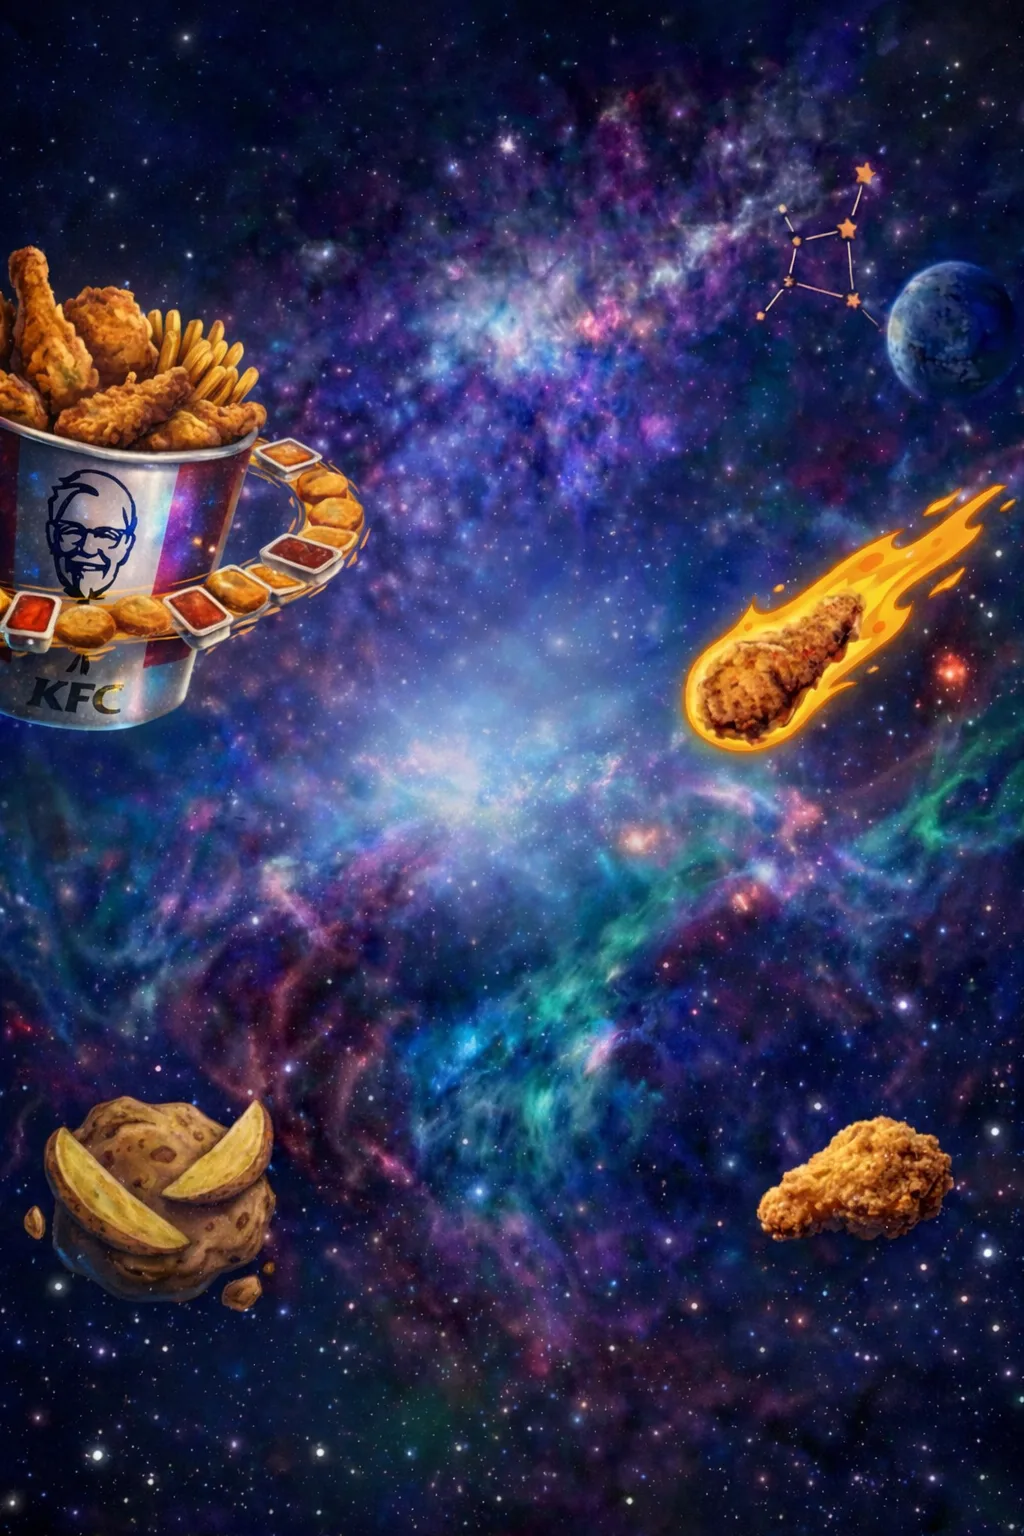
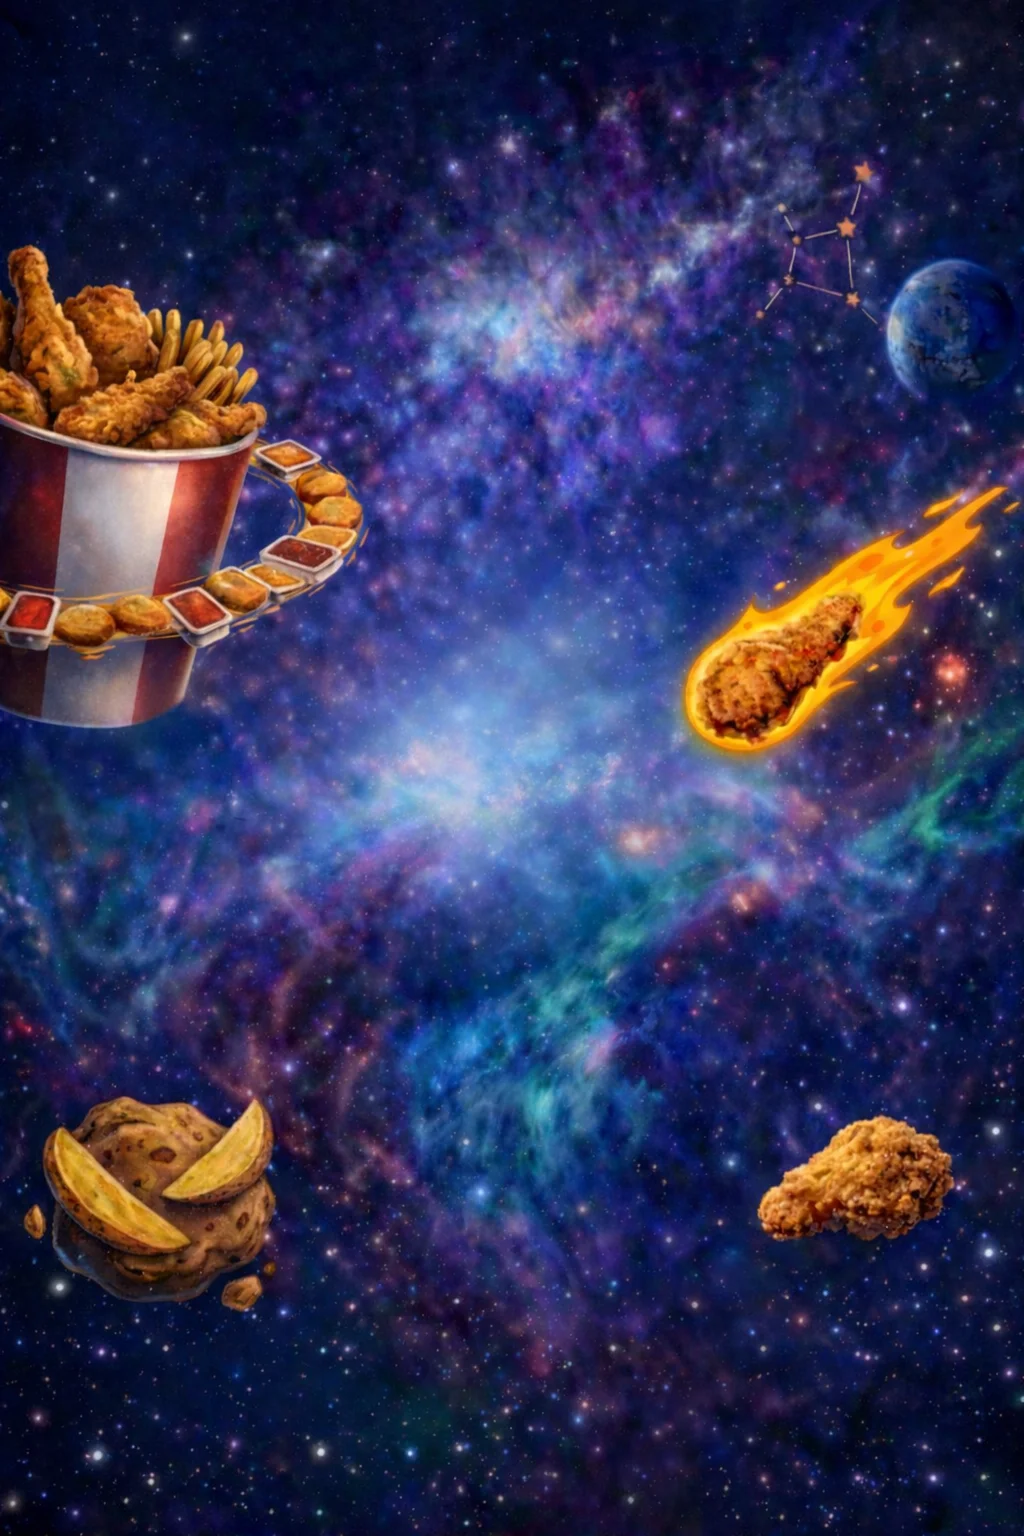
perf: Code splitting, font preload, admin texts export
- Split bundle with React.lazy: match3 and quest load separately
- Vite manualChunks: vendor-react (48KB) and vendor-pixi (542KB) isolated
- Main bundle reduced from 1.4MB to 188KB (initial load 76KB gzip)
- Preload critical fonts (RosticsCeraPro Regular + Black) and logo
- Re-convert gamebg.webp from updated source image
- Add CSV/JSON export for admin texts panel

diff --git a/frontend/index.tsx b/frontend/index.tsx
@@ -1,11 +1,12 @@
 
-import React from 'react';
+import React, { Suspense } from 'react';
 import ReactDOM from 'react-dom/client';
 import { BrowserRouter, Routes, Route, Navigate } from 'react-router-dom';
 import { AuthProvider } from './contexts/AuthContext';
 import { TextsProvider } from './contexts/TextsContext';
-import App from './App';
-import QuestApp from './quest/QuestApp';
+
+const App = React.lazy(() => import('./App'));
+const QuestApp = React.lazy(() => import('./quest/QuestApp'));
 
 const rootElement = document.getElementById('root');
 if (!rootElement) {
@@ -18,12 +19,14 @@ root.render(
     <TextsProvider>
       <AuthProvider>
         <BrowserRouter>
-          <Routes>
-            <Route path="/spacequest/*" element={<QuestApp />} />
-            <Route path="/match3/*" element={<App />} />
-            <Route path="/" element={<Navigate to="/match3" replace />} />
-            <Route path="*" element={<Navigate to="/match3" replace />} />
-          </Routes>
+          <Suspense fallback={null}>
+            <Routes>
+              <Route path="/spacequest/*" element={<QuestApp />} />
+              <Route path="/match3/*" element={<App />} />
+              <Route path="/" element={<Navigate to="/match3" replace />} />
+              <Route path="*" element={<Navigate to="/match3" replace />} />
+            </Routes>
+          </Suspense>
         </BrowserRouter>
       </AuthProvider>
     </TextsProvider>

diff --git a/frontend/index.html b/frontend/index.html
@@ -7,6 +7,9 @@
     <title>ROSTIC'S Kitchen Match-3</title>
     <link rel="icon" type="image/x-icon" href="/favicon.ico">
     <link rel="apple-touch-icon" sizes="180x180" href="/apple-touch-icon.png">
+    <link rel="preload" href="/fonts/RosticsCeraPro-Regular.woff" as="font" type="font/woff" crossorigin>
+    <link rel="preload" href="/fonts/RosticsCeraPro-Black.woff" as="font" type="font/woff" crossorigin>
+    <link rel="preload" href="/images/logoRostics.png" as="image">
     <script src="https://cdn.tailwindcss.com"></script>
     <style>
         /* ROSTIC'S CERA — brand fonts */

diff --git a/frontend/vite.config.ts b/frontend/vite.config.ts
@@ -21,6 +21,16 @@ export default defineConfig(({ mode }) => {
           '@': path.resolve(__dirname, '.'),
         }
       },
+      build: {
+        rollupOptions: {
+          output: {
+            manualChunks: {
+              'vendor-react': ['react', 'react-dom', 'react-router-dom'],
+              'vendor-pixi': ['pixi.js'],
+            }
+          }
+        }
+      },
       test: {
         globals: true,
         environment: 'happy-dom',

diff --git a/admin/app/custom_views.py b/admin/app/custom_views.py
@@ -1,5 +1,5 @@
 """Custom Russian admin views with consistent design"""
-from flask import Blueprint, render_template_string, redirect, url_for, request, flash
+from flask import Blueprint, render_template_string, redirect, url_for, request, flash, Response
 from flask_login import login_required, current_user
 from app import db
 from app.models import User, Level, UserLevelProgress, GameSession, UserActivity, AdminUser, GameText
@@ -937,9 +937,14 @@ def texts_list():
     sections = db.session.query(GameText.section).distinct().order_by(GameText.section).all()
     section_list = [s[0] for s in sections]
 
-    content = '''
+    export_section = f'?section={section_filter}' if section_filter else ''
+    content = f'''
     <div class="page-header">
         <h1 class="page-title"><i class="bi bi-fonts me-2"></i>Тексты игры и квеста</h1>
+        <div class="d-flex gap-2">
+            <a href="/admin/texts/export/csv{export_section}" class="btn btn-outline-success"><i class="bi bi-file-earmark-spreadsheet me-1"></i>CSV</a>
+            <a href="/admin/texts/export/json{export_section}" class="btn btn-outline-primary"><i class="bi bi-filetype-json me-1"></i>JSON</a>
+        </div>
     </div>
     <div class="card">
         <div class="card-header">
@@ -996,6 +1001,47 @@ def texts_list():
 
     content += '</tbody></table></div></div>'
     return render_page('Тексты', 'texts', content)
+
+
+@bp.route('/texts/export/<fmt>')
+@login_required
+def texts_export(fmt):
+    import csv
+    import io
+    import json as json_lib
+
+    section_filter = request.args.get('section', '')
+    query = GameText.query
+    if section_filter:
+        query = query.filter_by(section=section_filter)
+    texts = query.order_by(GameText.section, GameText.key).all()
+
+    suffix = f'_{section_filter}' if section_filter else ''
+
+    if fmt == 'json':
+        data = [
+            {'key': t.key, 'section': t.section, 'label': t.label, 'value': t.value}
+            for t in texts
+        ]
+        return Response(
+            json_lib.dumps(data, ensure_ascii=False, indent=2),
+            mimetype='application/json',
+            headers={'Content-Disposition': f'attachment; filename=texts{suffix}.json'}
+        )
+
+    # CSV with UTF-8 BOM for Excel compatibility
+    output = io.StringIO()
+    output.write('\ufeff')  # BOM for Excel
+    writer = csv.writer(output)
+    writer.writerow(['key', 'section', 'label', 'value'])
+    for t in texts:
+        writer.writerow([t.key, t.section, t.label, t.value])
+
+    return Response(
+        output.getvalue(),
+        mimetype='text/csv; charset=utf-8-sig',
+        headers={'Content-Disposition': f'attachment; filename=texts{suffix}.csv'}
+    )
 
 
 @bp.route('/texts/edit/<int:id>', methods=['GET', 'POST'])
